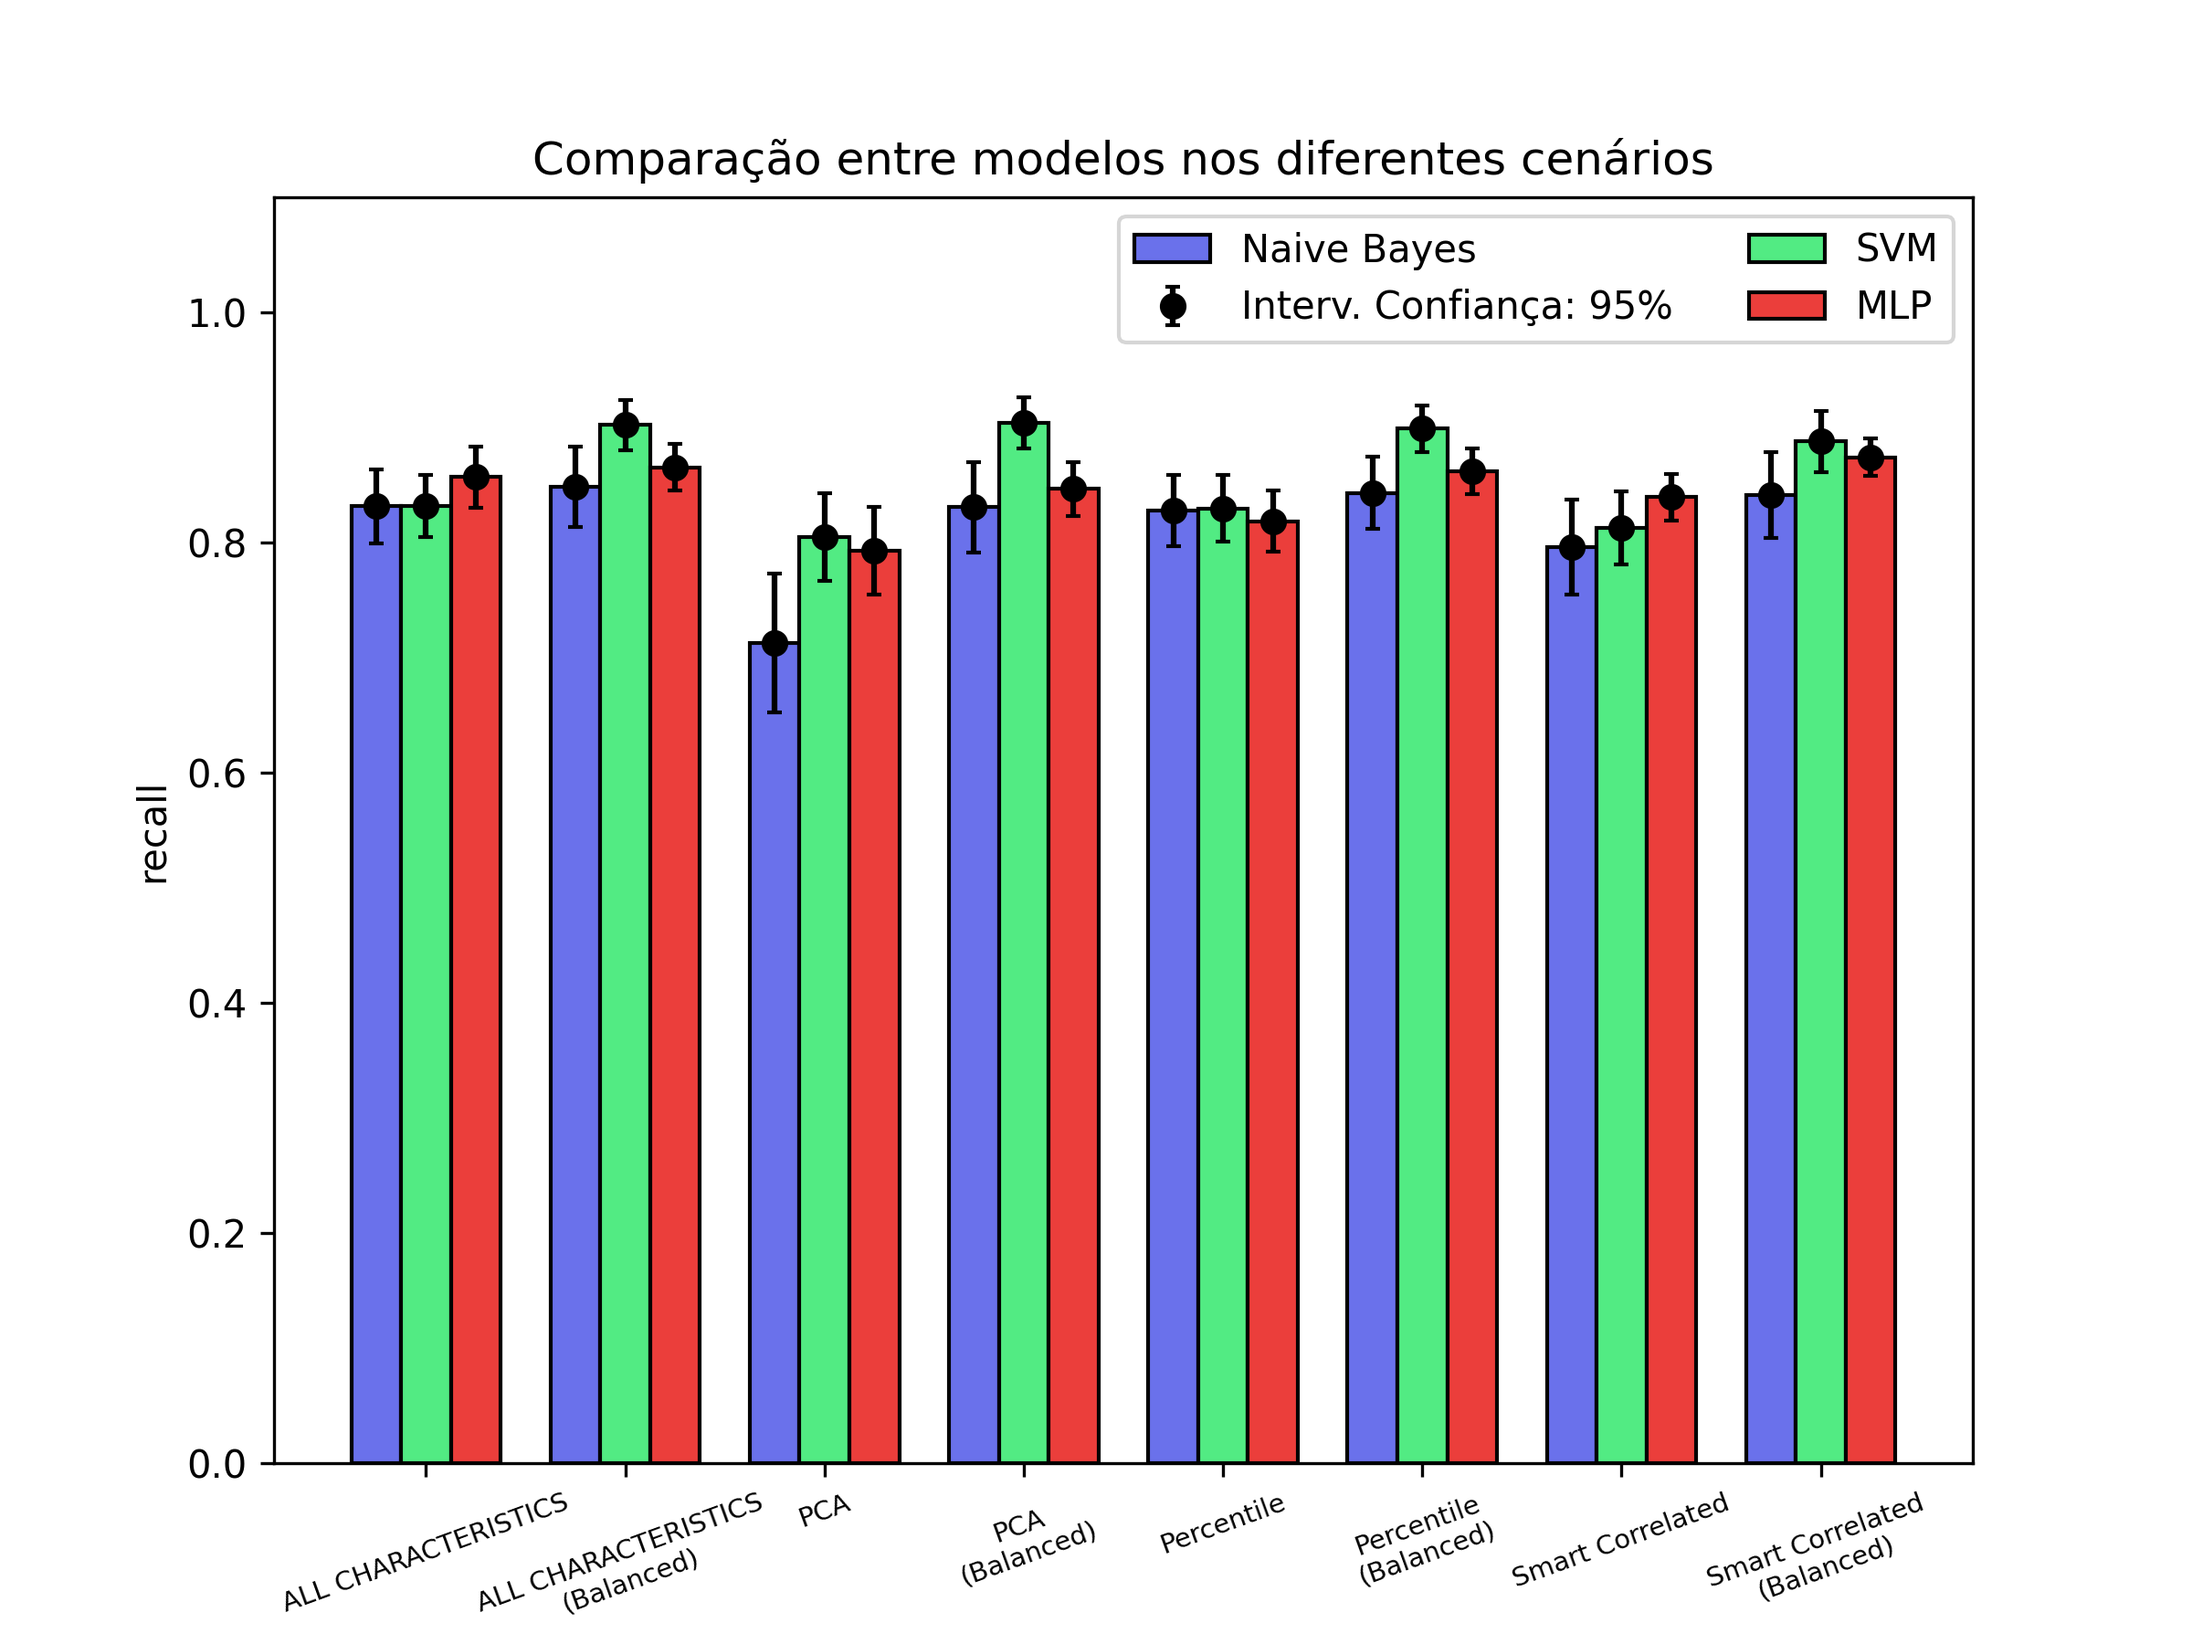
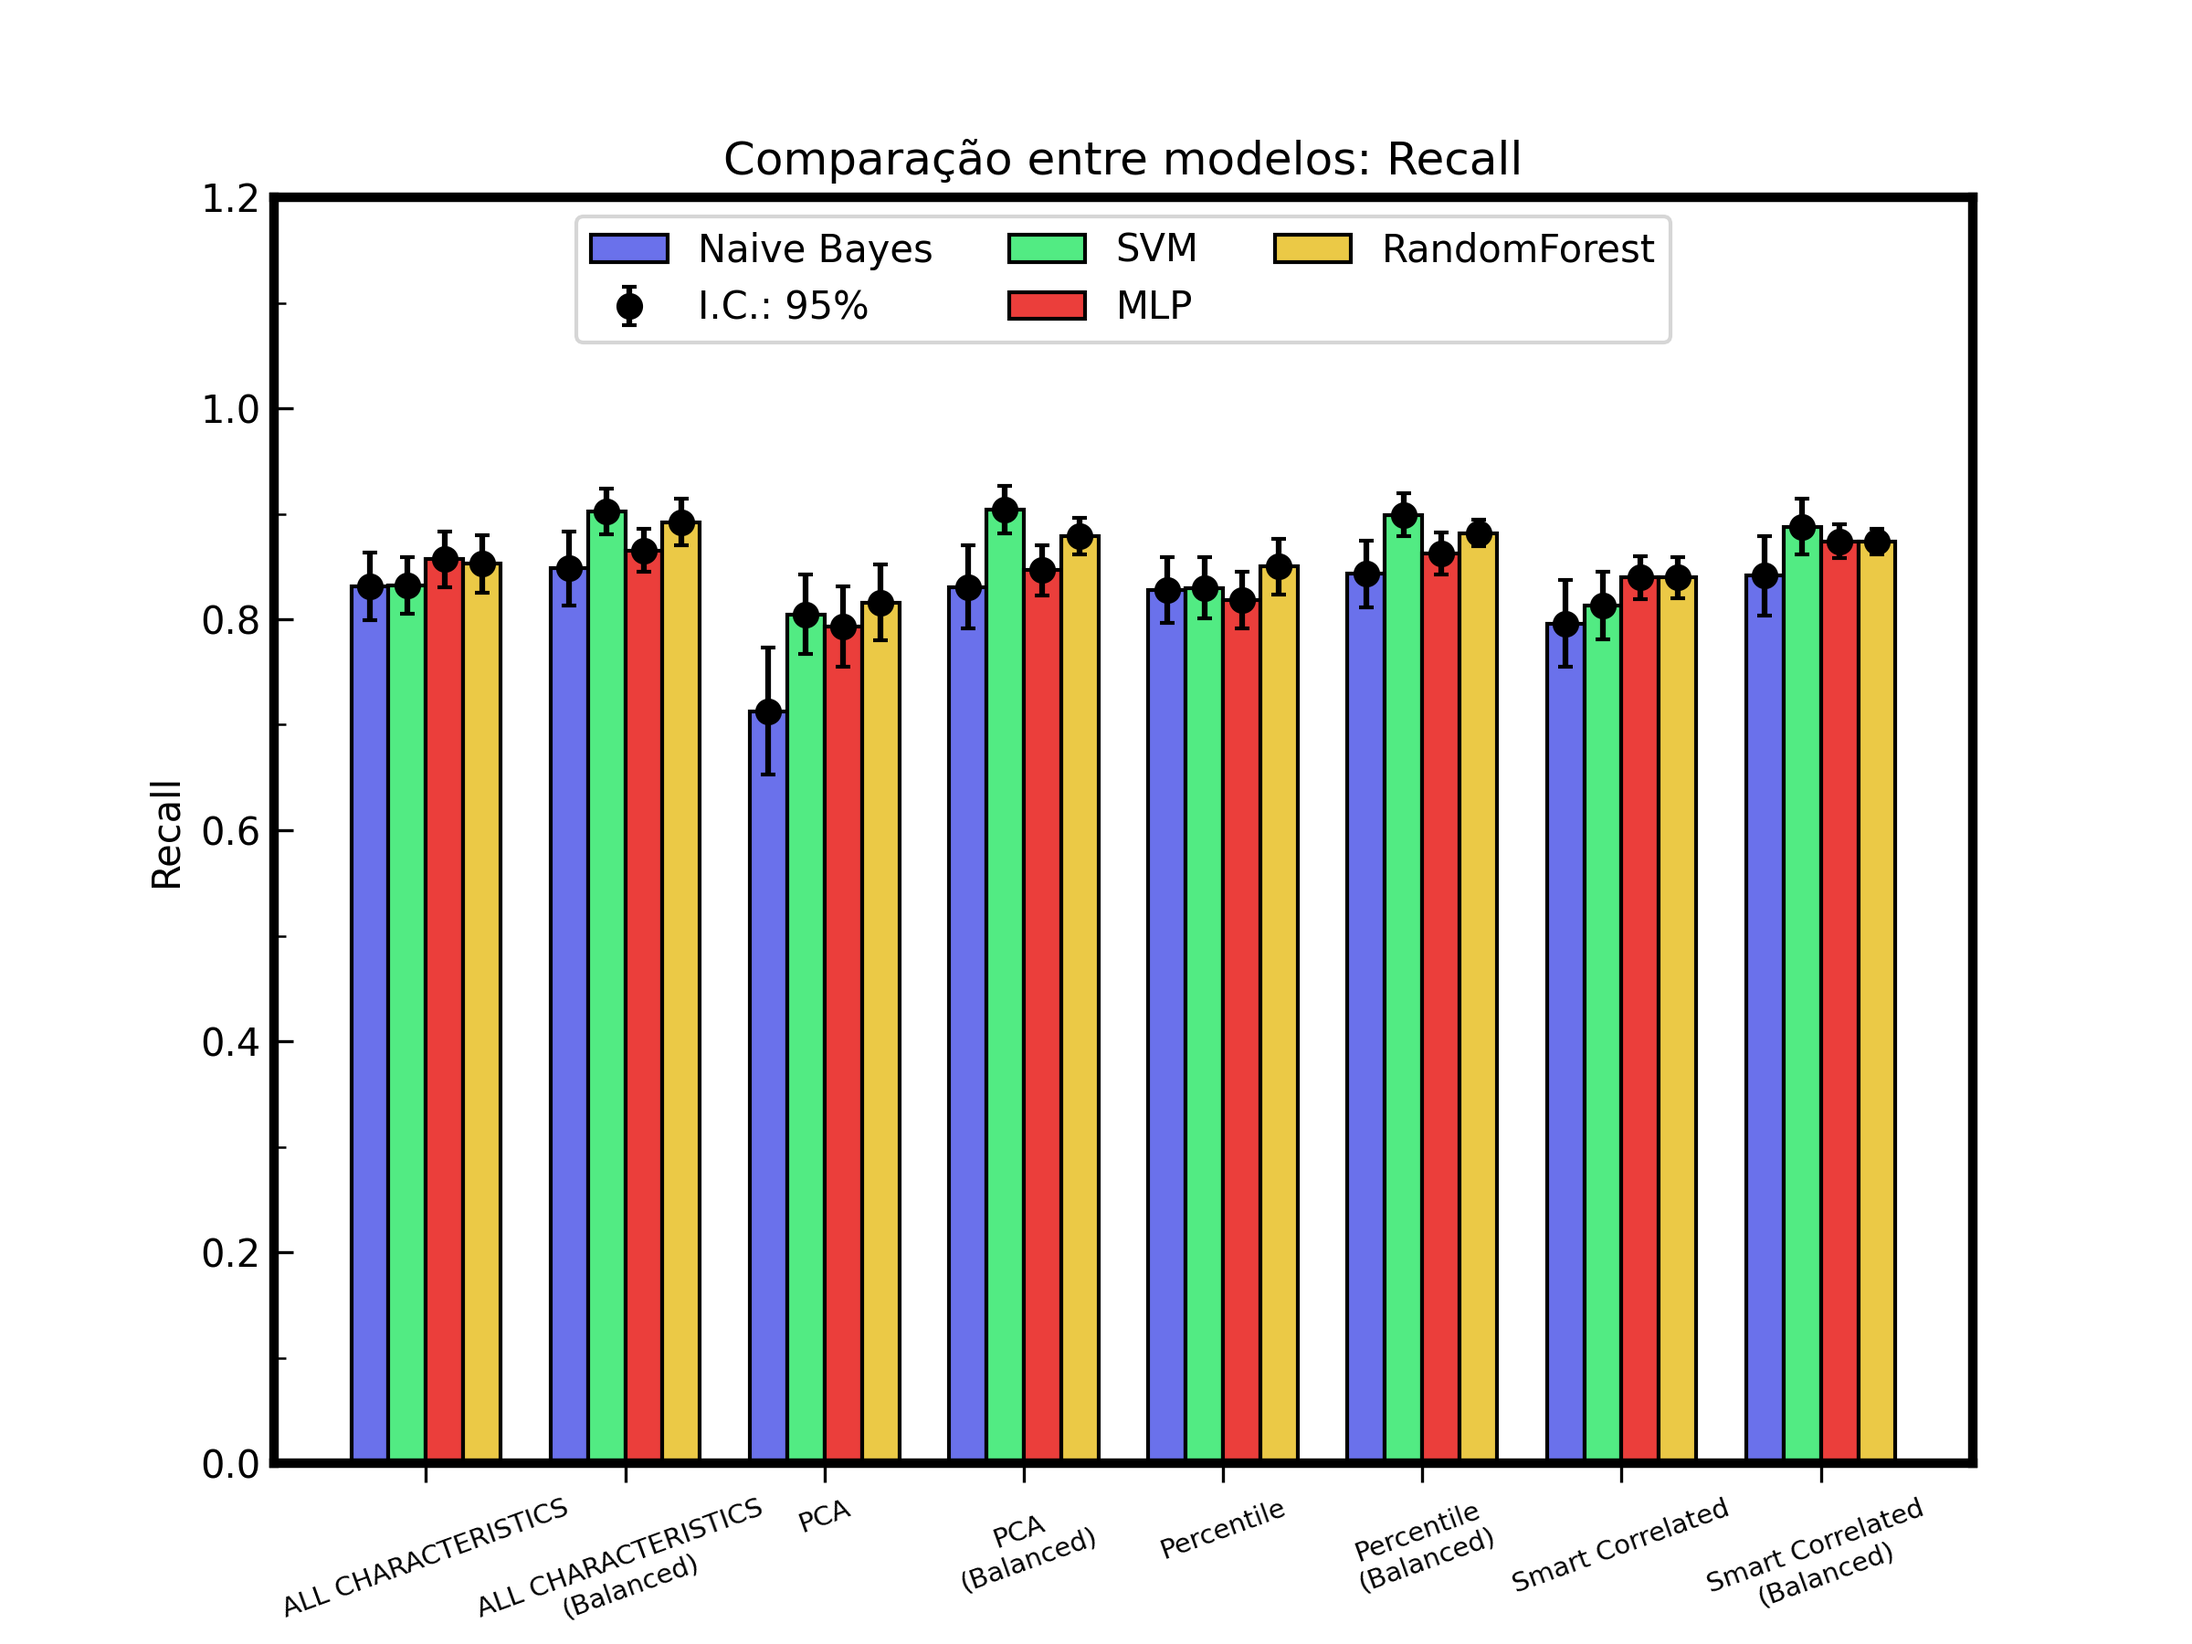
Adds Random forest and tabnet model

diff --git a/src/evaluation/crossval.py b/src/evaluation/crossval.py
@@ -1,6 +1,4 @@
-import json
 from copy import deepcopy
-from pathlib import Path
 from typing import Dict, List
 
 import numpy as np
@@ -8,8 +6,6 @@ import statsmodels.stats.api as stats
 from imblearn.pipeline import Pipeline
 from loguru import logger
 from sklearn.model_selection import StratifiedKFold
-from slugify import slugify
-from src.train.scenarios import SmartCorrelated, MIScenario, PCAScenario
 
 
 def summary_metric_array(metric_array: List):
@@ -26,7 +22,7 @@ def __run_kfolds(scenario, model, params, k, X, y, criterion, metrics):
     folds = kfold.split(X, y)
 
     max_features_param = "clf__max_features"
-    if scenario.name in {SmartCorrelated.name, MIScenario.name, PCAScenario.name}:
+    if scenario.has_fs and max_features_param in params.keys():
         params[max_features_param] = min(5, params[max_features_param])
 
     for (train_idx, test_idx) in folds:
@@ -43,8 +39,12 @@ def __run_kfolds(scenario, model, params, k, X, y, criterion, metrics):
         clf.set_params(**params)
 
         # ajuste e predicoes
-        clf.fit(X_train, y_train)
-        y_pred = clf.predict(X_test)
+        clf.fit(
+            X_train.values,
+            y_train.values,
+            **model.fit_params,
+        )
+        y_pred = clf.predict(X_test.values)
 
         # calcula metricas
         for metric in metrics.keys():
@@ -63,32 +63,6 @@ def __run_kfolds(scenario, model, params, k, X, y, criterion, metrics):
     return score, _metrics
 
 
-def __save_partial_results(experiment, params: Dict, metrics: Dict, idx):
-    _metrics = deepcopy(metrics)
-    for metric in _metrics:
-        del _metrics[metric]["method"]
-
-    model = experiment.model.name
-    scenario = experiment.scenario.name
-
-    regex_pattern = r"[^-a-z0-9_]+"
-    file_name = slugify(
-        f"{model}_{scenario}_param-set-{idx}", regex_pattern=regex_pattern
-    )
-
-    partial_results = {
-        "model": model,
-        "scenario": scenario,
-        "params": params,
-        "metrics": _metrics,
-    }
-
-    Path(f"data/results/partial/{model}/").mkdir(exist_ok=True, parents=True)
-
-    with open(f"data/results/partial/{model}/{file_name}.json", "w") as f:
-        f.write(json.dumps(partial_results))
-
-
 def cross_validate(
     X,
     y,
@@ -98,8 +72,6 @@ def cross_validate(
     metrics: Dict,
     criterion: str,
     parameters: List[Dict],
-    experiment,
-    save_partial: bool = False,
 ):
     logger.info(f"Starting cross validation...")
 
@@ -108,13 +80,10 @@ def cross_validate(
     best_metrics = None
 
     logger.info(f"Running CV with k={k} for each hyper parameter combinarion...")
-    for idx, param_combination in enumerate(parameters):
+    for _, param_combination in enumerate(parameters):
         score, _metrics = __run_kfolds(
             scenario, model, param_combination, k, X, y, criterion, metrics
         )
-
-        if save_partial:
-            __save_partial_results(experiment, param_combination, _metrics, idx)
 
         if not highest_score or score > highest_score:
             highest_score = score

diff --git a/src/dataviz/plots.py b/src/dataviz/plots.py
@@ -5,6 +5,16 @@ import matplotlib.pyplot as plt
 import numpy as np
 import pandas as pd
 import seaborn as sns
+from matplotlib.ticker import MultipleLocator
+
+plt.style.use("default")
+plt.rcParams["xtick.major.size"] = 5.0
+plt.rcParams["xtick.minor.size"] = 3.0
+plt.rcParams["ytick.major.size"] = 5.0
+plt.rcParams["ytick.minor.size"] = 3.0
+plt.rcParams["axes.linewidth"] = 2.5
+plt.rcParams["xtick.direction"] = "out"
+plt.rcParams["ytick.direction"] = "in"
 
 PULSAR_COLOR: str = "#805BFF"
 NOISE_COLOR: str = "#B6B2B8"
@@ -77,23 +87,30 @@ def plot_class_balance(df, class_column):
     )
 
 
-def make_bar_chart_comparision(metrics_df: pd.DataFrame, metric: str):
+def make_bar_chart_comparision(
+    metrics_df: pd.DataFrame,
+    metric: str,
+    compare_models: List,
+):
     # Work in progress
     df = metrics_df.copy()
     df.sort_values(by=["scenario_name"], inplace=True)
+    print(metric)
 
     df["yerr_lower"] = df[metric] - df[f"{metric}_ci_lower"]
     df["yerr_upper"] = df[f"{metric}_ci_upper"] - df[metric]
-    models = df["model_name"].unique()
+    models = compare_models
     scenarios = df["scenario_name"].unique()
 
     colors = ["#6A71EB", "#52EB83", "#EB3E3B", "#EBC946"]
 
-    fig, ax = plt.subplots(dpi=150, figsize=(8, 6))
+    fig, ax = plt.subplots(figsize=(8, 6))
 
-    bar_width = 0.25
-    bar_positions = np.arange(len(scenarios))
+    bar_width = 0.3
+    bar_positions = np.arange(len(scenarios)) * 1.6
     bar_mean_positions = np.zeros(bar_positions.shape)
+
+    ax.yaxis.set_minor_locator(MultipleLocator(0.1))
 
     for idx, model in enumerate(models):
         bar_mean_positions = bar_mean_positions + bar_positions
@@ -125,15 +142,16 @@ def make_bar_chart_comparision(metrics_df: pd.DataFrame, metric: str):
                 yerr=[_df["yerr_lower"], _df["yerr_upper"]],
                 fmt="o",
                 color="k",
-                label="Interv. Confiança: 95%",
+                label="I.C.: 95%",
             )
 
         bar_positions = bar_positions + bar_width
 
-    plt.legend(ncol=2)
-    plt.ylabel(metric)
-    plt.ylim([0, 1.1])
-    plt.title("Comparação entre modelos nos diferentes cenários")
+    metric_name = metric.replace("_", " ").title()
+    plt.legend(ncol=3, loc="upper center")
+    plt.ylabel(metric_name)
+    plt.ylim([0, 1.2])
+    plt.title(f"Comparação entre modelos: {metric_name}")
 
     c_models = len(models)
     fontsize = 7

diff --git a/src/train/train.py b/src/train/train.py
@@ -1,7 +1,6 @@
 import os
 import warnings
 from functools import partial
-from multiprocessing import Pool
 from pathlib import Path
 
 import pandas as pd
@@ -9,10 +8,15 @@ import pandas as pd
 from src.dataviz.plots import make_bar_chart_comparision
 from src.evaluation.metrics import METRICS, aggregate_metrics
 from src.train.experiment import Experiment
-from src.train.models import MODELS
+from src.train.models import MLP, MODELS, SVM, NaiveBayes, RandomForest
 from src.train.scenarios import SCENARIOS
 
-PARALLEL_JOBS = 2
+models_to_compare = [
+    NaiveBayes.name,
+    SVM.name,
+    MLP.name,
+    RandomForest.name,
+]
 
 
 def run_experiment(experiment: Experiment, X, y, metrics_folder):
@@ -38,9 +42,6 @@ def main():
         for model in MODELS:
             experiments.append(Experiment(scenario=scenario, model=model))
 
-    # with Pool(processes=PARALLEL_JOBS) as p:
-    #     p.map(_run_experiment, experiments)
-
     for experiment in experiments:
         _run_experiment(experiment)
 
@@ -48,7 +49,9 @@ def main():
     metrics_df = pd.read_csv(metrics_file)
 
     for metric in metrics:
-        make_bar_chart_comparision(metrics_df, metric=metric)
+        make_bar_chart_comparision(
+            metrics_df, metric=metric, compare_models=models_to_compare
+        )
 
 
 if __name__ == "__main__":

diff --git a/src/train/scenarios.py b/src/train/scenarios.py
@@ -14,6 +14,7 @@ class Scenario:
     name: str
     is_balanced: bool
     feature_selection: str
+    has_fs: bool
     metrics: Dict
     preprocessing_steps: Pipeline
     best_params: Dict = None
@@ -24,6 +25,7 @@ class AllCharacteristicsScenario(Scenario):
     name = "ALL CHARACTERISTICS"
     is_balanced = False
     feature_selection = "ALL CHARACTERISTICS"
+    has_fs = False
     metrics = METRICS
     preprocessing_steps = [
         ("scaler", MinMaxScaler()),
@@ -34,6 +36,7 @@ class PCAScenario(Scenario):
     name = "PCA"
     is_balanced = False
     feature_selection = "PCA"
+    has_fs = True
     metrics = METRICS
     preprocessing_steps = [
         ("scaler", MinMaxScaler()),
@@ -45,6 +48,7 @@ class MIScenario(Scenario):
     name = "Percentile"
     is_balanced = False
     feature_selection = "Select Percentile"
+    has_fs = True
     metrics = METRICS
     preprocessing_steps = [
         ("scaler", MinMaxScaler()),
@@ -56,6 +60,7 @@ class SmartCorrelated(Scenario):
     name = "Smart Correlated"
     is_balanced = False
     feature_selection = "Smart Correlated"
+    has_fs = True
     metrics = METRICS
     preprocessing_steps = [
         ("scaler", MinMaxScaler()),

diff --git a/notebooks/5. Metrics - MLP.py b/notebooks/5. Metrics - MLP.py
@@ -1,0 +1,39 @@
+# ---
+# jupyter:
+#   jupytext:
+#     formats: ipynb,py:light
+#     text_representation:
+#       extension: .py
+#       format_name: light
+#       format_version: '1.5'
+#       jupytext_version: 1.13.8
+#   kernelspec:
+#     display_name: Python 3 (ipykernel)
+#     language: python
+#     name: python3
+# ---
+
+# # RF
+
+import pandas as pd
+
+df = pd.read_csv("../data/results/metrics.csv")
+
+model_metrics = df[df.model_name == "RandomForest"]
+
+_model_metrics = pd.concat(
+    [
+        model_metrics[["scenario_name", "accuracy", "precision", "recall", "f1_score"]],
+        model_metrics["best_params"].map(eval).apply(pd.Series)
+    ],
+    axis=1
+)
+
+(
+    _model_metrics
+    .sort_values(by=["scenario_name"])
+    .style
+    .highlight_max(subset=["accuracy", "precision", "recall", "f1_score"], color="#8F8")
+)
+
+

diff --git a/notebooks/6. Metrics - RandomForest.py b/notebooks/6. Metrics - RandomForest.py
@@ -1,0 +1,39 @@
+# ---
+# jupyter:
+#   jupytext:
+#     formats: ipynb,py:light
+#     text_representation:
+#       extension: .py
+#       format_name: light
+#       format_version: '1.5'
+#       jupytext_version: 1.13.8
+#   kernelspec:
+#     display_name: Python 3 (ipykernel)
+#     language: python
+#     name: python3
+# ---
+
+# # SVM
+
+import pandas as pd
+
+df = pd.read_csv("../data/results/metrics.csv")
+
+model_metrics = df[df.model_name == "MLP"]
+
+_model_metrics = pd.concat(
+    [
+        model_metrics[["scenario_name", "accuracy", "precision", "recall", "f1_score"]],
+        model_metrics["best_params"].map(eval).apply(pd.Series)
+    ],
+    axis=1
+)
+
+(
+    _model_metrics
+    .sort_values(by=["scenario_name"])
+    .style
+    .highlight_max(subset=["accuracy", "precision", "recall", "f1_score"], color="#8F8")
+)
+
+

diff --git a/src/train/models.py b/src/train/models.py
@@ -1,6 +1,7 @@
 import math
 from typing import Dict, List
 
+from pytorch_tabnet.tab_model import TabNetClassifier
 from sklearn.base import ClassifierMixin
 from sklearn.ensemble import RandomForestClassifier
 from sklearn.naive_bayes import GaussianNB
@@ -89,6 +90,23 @@ class RandomForest(Model):
     ]
 
 
+class TabNet(Model):
+    name = "TabNet"
+    classifier = TabNetClassifier
+    fixed_params: Dict = {
+        "n_d": 11,
+        "n_a": 9,
+        "n_steps": 9,
+        "gamma": 1.092671059464805,
+        "optimizer_params": {"lr": 0.002113695480252209},
+    }
+    param_grid: List[Dict] = [{}]
+    fit_params: Dict = {
+        "clf__batch_size": 2048,
+        "clf__max_epochs": 500,
+    }
+
+
 MODELS = [
-    RandomForest(),
+    TabNet(),
 ]

diff --git a/src/train/experiment.py b/src/train/experiment.py
@@ -37,7 +37,6 @@ class Experiment:
             metrics=self.scenario.metrics,
             criterion=self.scenario.selection_criteria,  # to choose the best model
             parameters=self.get_hyperparameters_combinations(),
-            experiment=self,
         )
 
         self.scenario.metrics.update(best_metrics)
